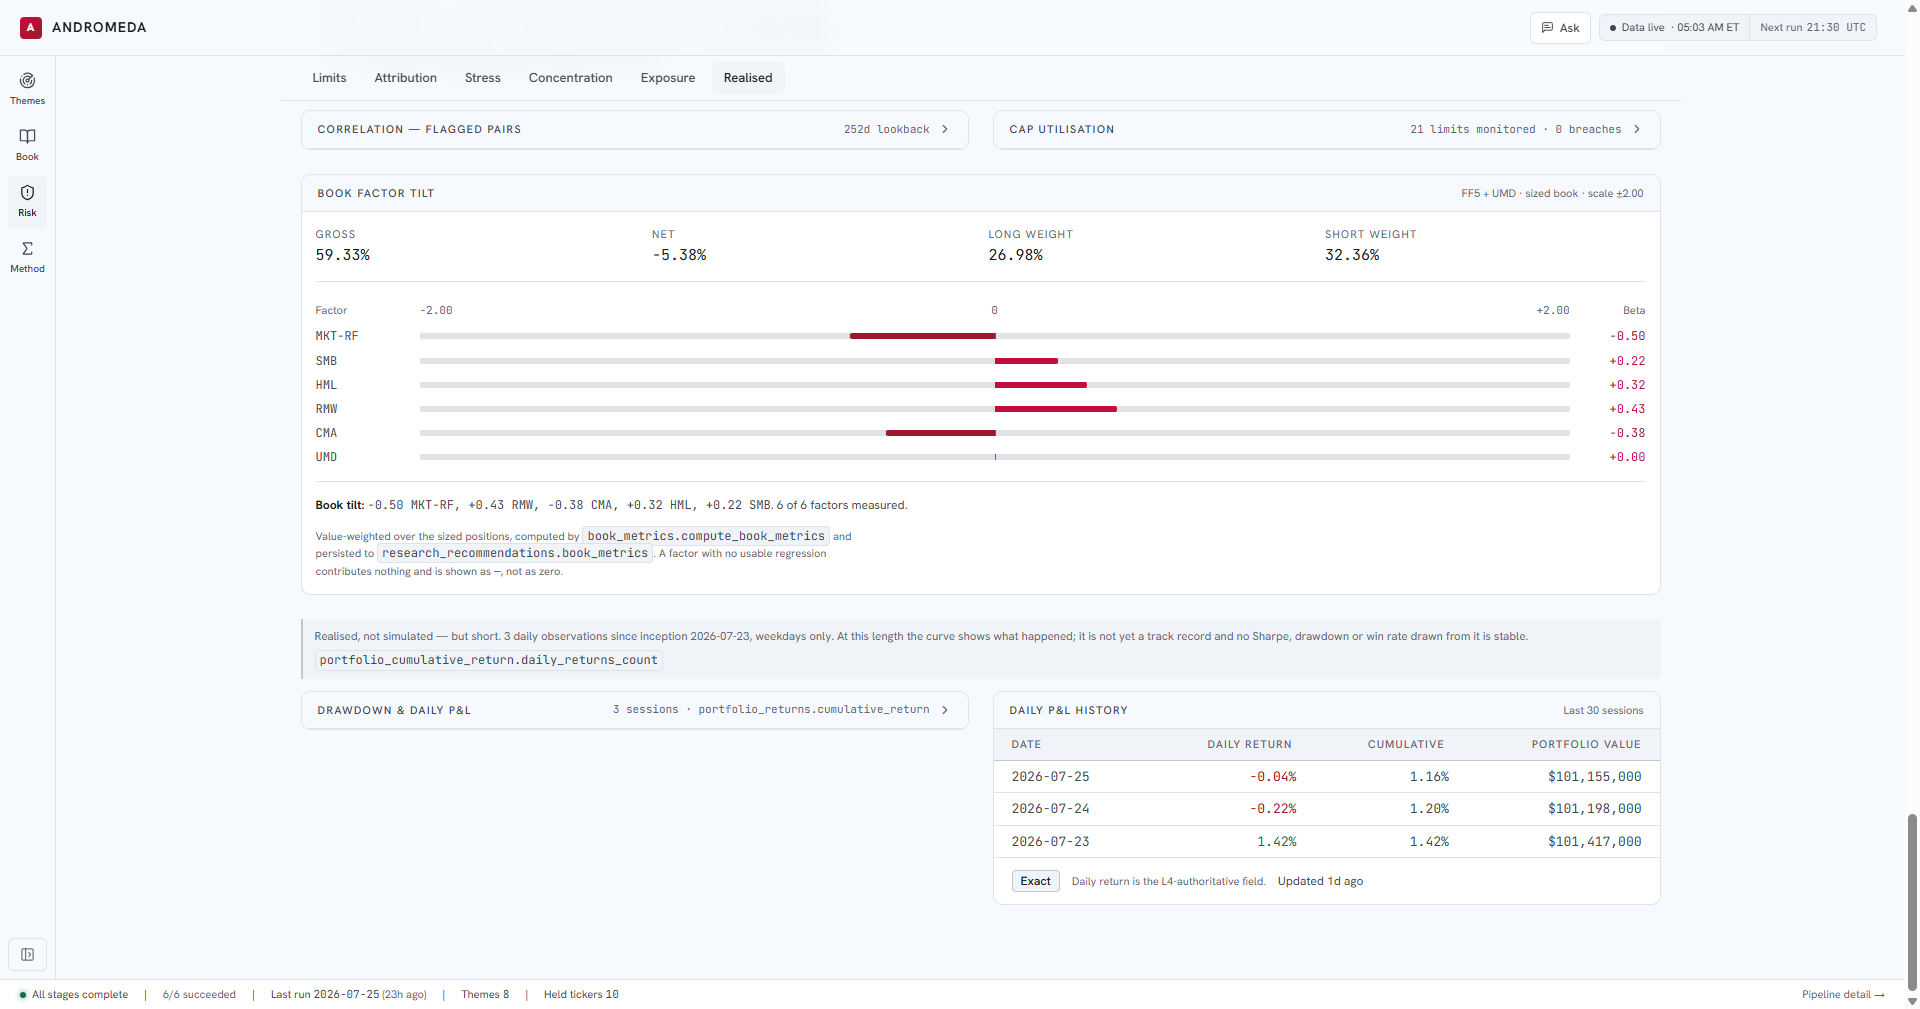
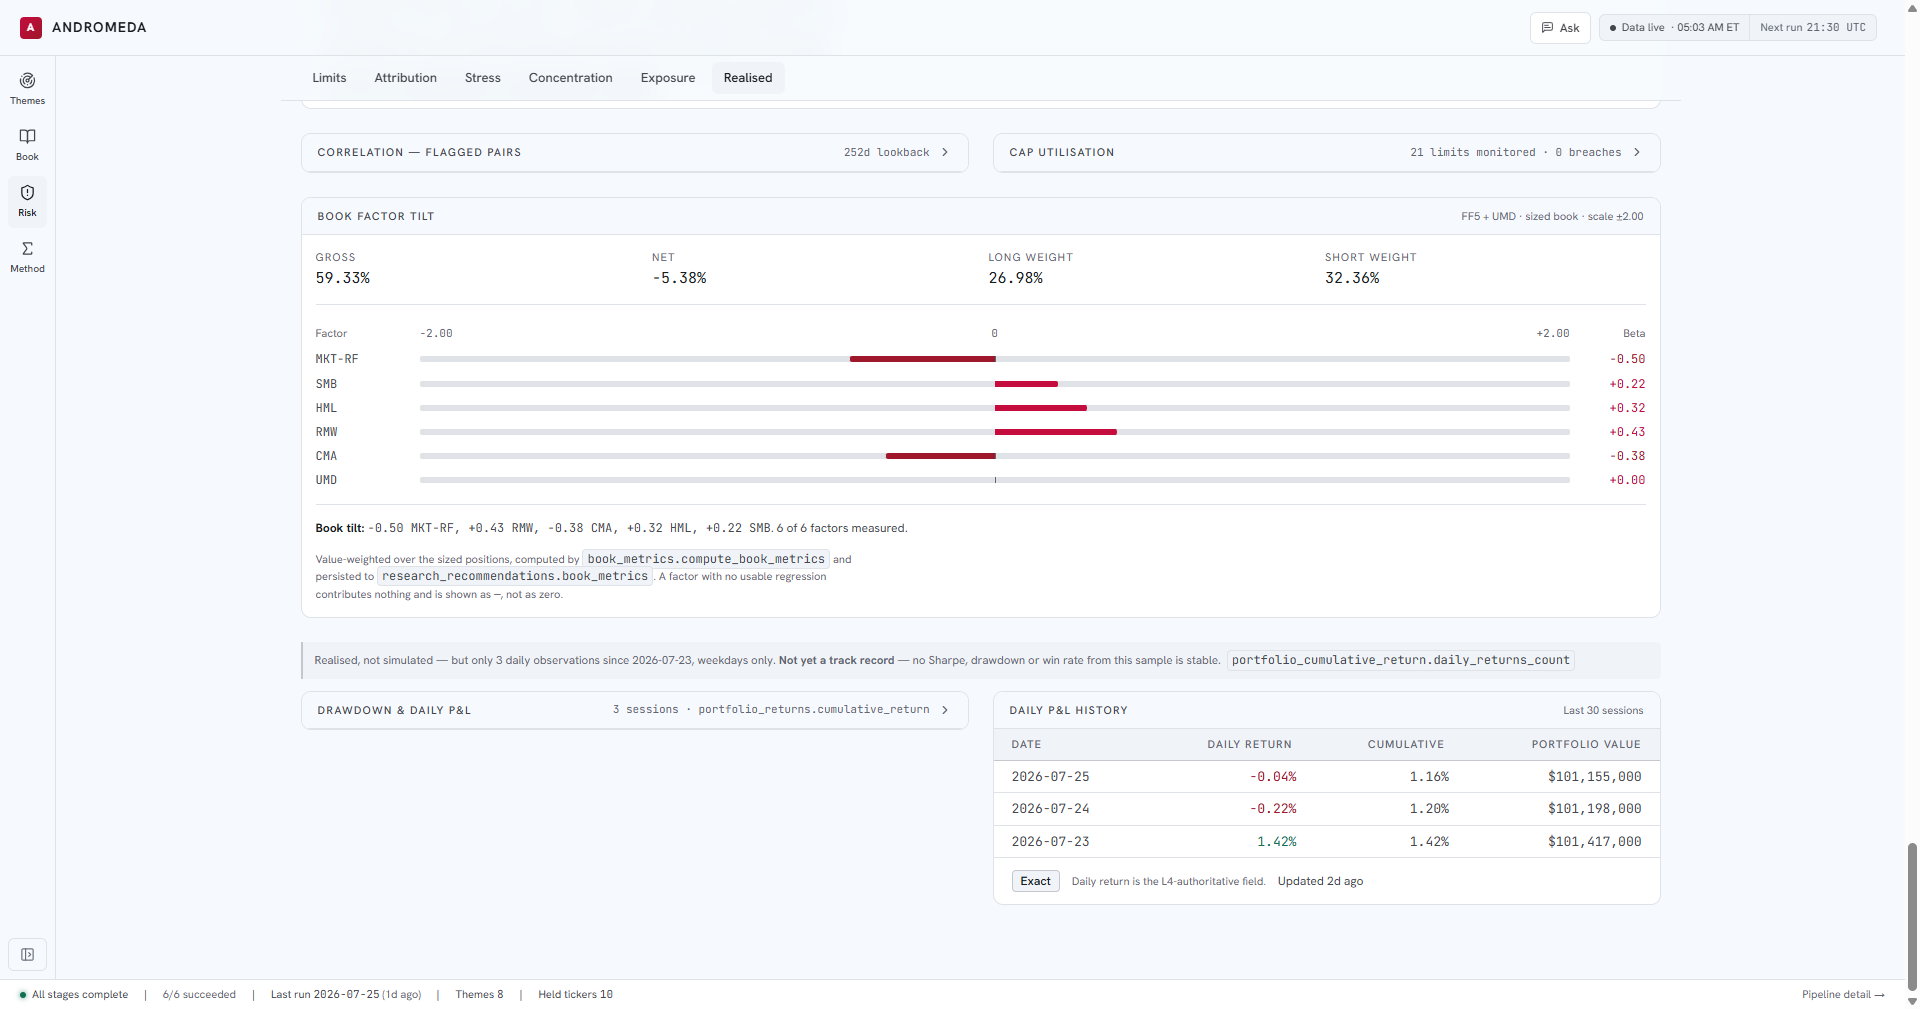
fix(ui): fewer words around the same facts
A UX pass over the four things added yesterday, after looking at them on the
page instead of recalling them. Three were worse than I thought.

ProvenanceStrip rendered TWICE on /book — the identical sentence under Longs
and again under Shorts. Cadence and source are facts about the book and do
not change with direction, so it is boilerplate, not provenance. Now once,
under both tables.

The realised section carried four prose blocks totalling ~940 characters
around a chart with three data points. That is density serving anxiety rather
than comparison. The two blocks that are mine are now 333 characters instead
of 546, and the section is 727 rather than 940. The other two are pre-existing
and carry real reconciliation detail, so they stay.

The benchmark gate spent 263 characters explaining why a line is absent —
more words than the chart itself carries. Now 113: the fact, the count, the
source. A reader needs to know the comparison is withheld and why in one
glance, not to be argued with.

Scope labels 9px to 10px. They were at the edge of legibility, and shrinking
type to fit is the wrong trade when the whole point of the line is that it can
be read. Hierarchy against the label is carried by case, not size, so nothing
is lost. Briefly added opacity-90 alongside and reverted it — dimming text to
make room works directly against the legibility being fixed, and quietly
lowers contrast a guard would not catch on a non-chip element.

diff --git a/frontend/app/book/page.tsx b/frontend/app/book/page.tsx
@@ -37,6 +37,7 @@ import SizingChainView from "@/components/book/SizingChainView";
 import PositionMarginalRisk from "@/components/book/PositionMarginalRisk";
 import AbstentionRoster from "@/components/book/AbstentionRoster";
 import BookTurnover from "@/components/book/BookTurnover";
+import TrackRecordPanel from "@/components/book/TrackRecordPanel";
 import PoolDepth, { type IndependentIdeas } from "@/components/book/PoolDepth";
 import { WorkedExamplePanel } from "@/components/book/WorkedExamplePanel";
 import type {
@@ -940,6 +941,24 @@ function BookPageInner() {
               />
               </div>
 
+              {/* ONCE, under both tables — not once per section. Rendered inside
+                  PositionSection it repeated the identical sentence under Longs
+                  and again under Shorts, which is boilerplate rather than
+                  provenance: the cadence and the source are facts about the
+                  BOOK, and neither changes with direction. */}
+              {(longs.length > 0 || shorts.length > 0) && (
+                <ProvenanceStrip
+                  className="px-0"
+                  cadence="Published 21:30 UTC, weekdays"
+                  source="research_recommendations.picks"
+                  note={
+                    rec?.run_date
+                      ? `run ${rec.run_date} · L0-L4 deterministic`
+                      : "L0-L4 deterministic"
+                  }
+                />
+              )}
+
               {/* ADR-0081 — Worked example lineage panel. Additive, collapsed by default
                   (a native `<details>`), rendered only when there are picks. Same data
                   the rows above already show, in the order the pipeline performed it. */}
@@ -980,6 +999,11 @@ function BookPageInner() {
 
           {/* ── Same inputs, run again: agent churn as against market churn ─ */}
           <Replication />
+
+          {/* ── Did the books we already published turn out right? (ADR-0090) ─
+              The instrument lived only on /method, two clicks from the claims it
+              grades. This is the summary at the point of the claim. */}
+          <TrackRecordPanel />
           </div>
 
           {/* ── Abstention roster ───────────────────────────────────────── */}
@@ -1236,25 +1260,25 @@ function PositionSection({
             <span>Asset · theme · rationale</span>
             <span className="text-right flex flex-col">
               Weight · notional
-              <span className="text-[9px] tracking-[0.1em] normal-case">
+              <span className="text-[10px] tracking-[0.1em] normal-case">
                 {BOOK_ROW_SCOPES[2]}
               </span>
             </span>
             <span className="text-right flex flex-col">
               Edge
-              <span className="text-[9px] tracking-[0.1em] normal-case">
+              <span className="text-[10px] tracking-[0.1em] normal-case">
                 {BOOK_ROW_SCOPES[3]}
               </span>
             </span>
             <span className="text-right flex flex-col">
               Conv.
-              <span className="text-[9px] tracking-[0.1em] normal-case">
+              <span className="text-[10px] tracking-[0.1em] normal-case">
                 {BOOK_ROW_SCOPES[4]}
               </span>
             </span>
             <span className="text-right flex flex-col">
               Cap
-              <span className="text-[9px] tracking-[0.1em] normal-case">
+              <span className="text-[10px] tracking-[0.1em] normal-case">
                 {BOOK_ROW_SCOPES[5]}
               </span>
             </span>
@@ -1289,17 +1313,6 @@ function PositionSection({
             />
           ))}
         </ScrollArea>
-      )}
-      {picks.length > 0 && (
-        <ProvenanceStrip
-          cadence="Published 21:30 UTC, weekdays"
-          source="research_recommendations.picks"
-          note={
-            bookRunDate
-              ? `run ${bookRunDate} · L0-L4 deterministic`
-              : "L0-L4 deterministic"
-          }
-        />
       )}
     </section>
   );

diff --git a/frontend/components/risk/DrawdownChart.tsx b/frontend/components/risk/DrawdownChart.tsx
@@ -568,17 +568,15 @@ export function DrawdownChart({
               would conclude no reference exists rather than that one exists and
               is too short to mean anything. */}
           {usableBenchmark.length < BENCHMARK_MIN_OBS && (
+            /* One sentence. An earlier draft spent three explaining why a line
+               is absent, which is more words than the chart itself carries —
+               the reader needs the fact and the count, not the argument. */
             <p className="m-0 mt-2 text-[11px] text-text-tertiary leading-[1.6] max-w-[95ch]">
-              No benchmark drawn. {benchmarkTicker} is persisted in{" "}
-              <Ident>benchmark_returns.cumulative_return</Ident>, compounded from
-              the book&apos;s own inception, but only{" "}
-              <strong>{usableBenchmark.length}</strong>{" "}
-              {usableBenchmark.length === 1
-                ? "usable observation exists"
-                : "usable observations exist"}{" "}
-              against the{" "}
-              {BENCHMARK_MIN_OBS} this page already requires of a Sharpe. Two
-              curves this short would compare noise to noise.
+              No {benchmarkTicker} benchmark drawn —{" "}
+              <strong>{usableBenchmark.length}</strong> usable observation
+              {usableBenchmark.length === 1 ? "" : "s"} against the{" "}
+              {BENCHMARK_MIN_OBS} a Sharpe needs.{" "}
+              <Ident>benchmark_returns.cumulative_return</Ident>
             </p>
           )}
 

diff --git a/frontend/app/risk/page.tsx b/frontend/app/risk/page.tsx
@@ -806,12 +806,12 @@ function RiskPageInner() {
         <SourceCaveat source="portfolio_cumulative_return.daily_returns_count">
           {data.inception ? (
             <>
-              Realised, not simulated — but short. {data.inception.daily_returns_count}{" "}
-              daily observation
-              {data.inception.daily_returns_count === 1 ? "" : "s"} since inception{" "}
-              {data.inception.inception_date}, weekdays only. At this length the
-              curve shows what happened; it is not yet a track record and no
-              Sharpe, drawdown or win rate drawn from it is stable.
+              Realised, not simulated — but only{" "}
+              {data.inception.daily_returns_count} daily observation
+              {data.inception.daily_returns_count === 1 ? "" : "s"} since{" "}
+              {data.inception.inception_date}, weekdays only.{" "}
+              <strong>Not yet a track record</strong> — no Sharpe, drawdown or
+              win rate from this sample is stable.
             </>
           ) : (
             <>
